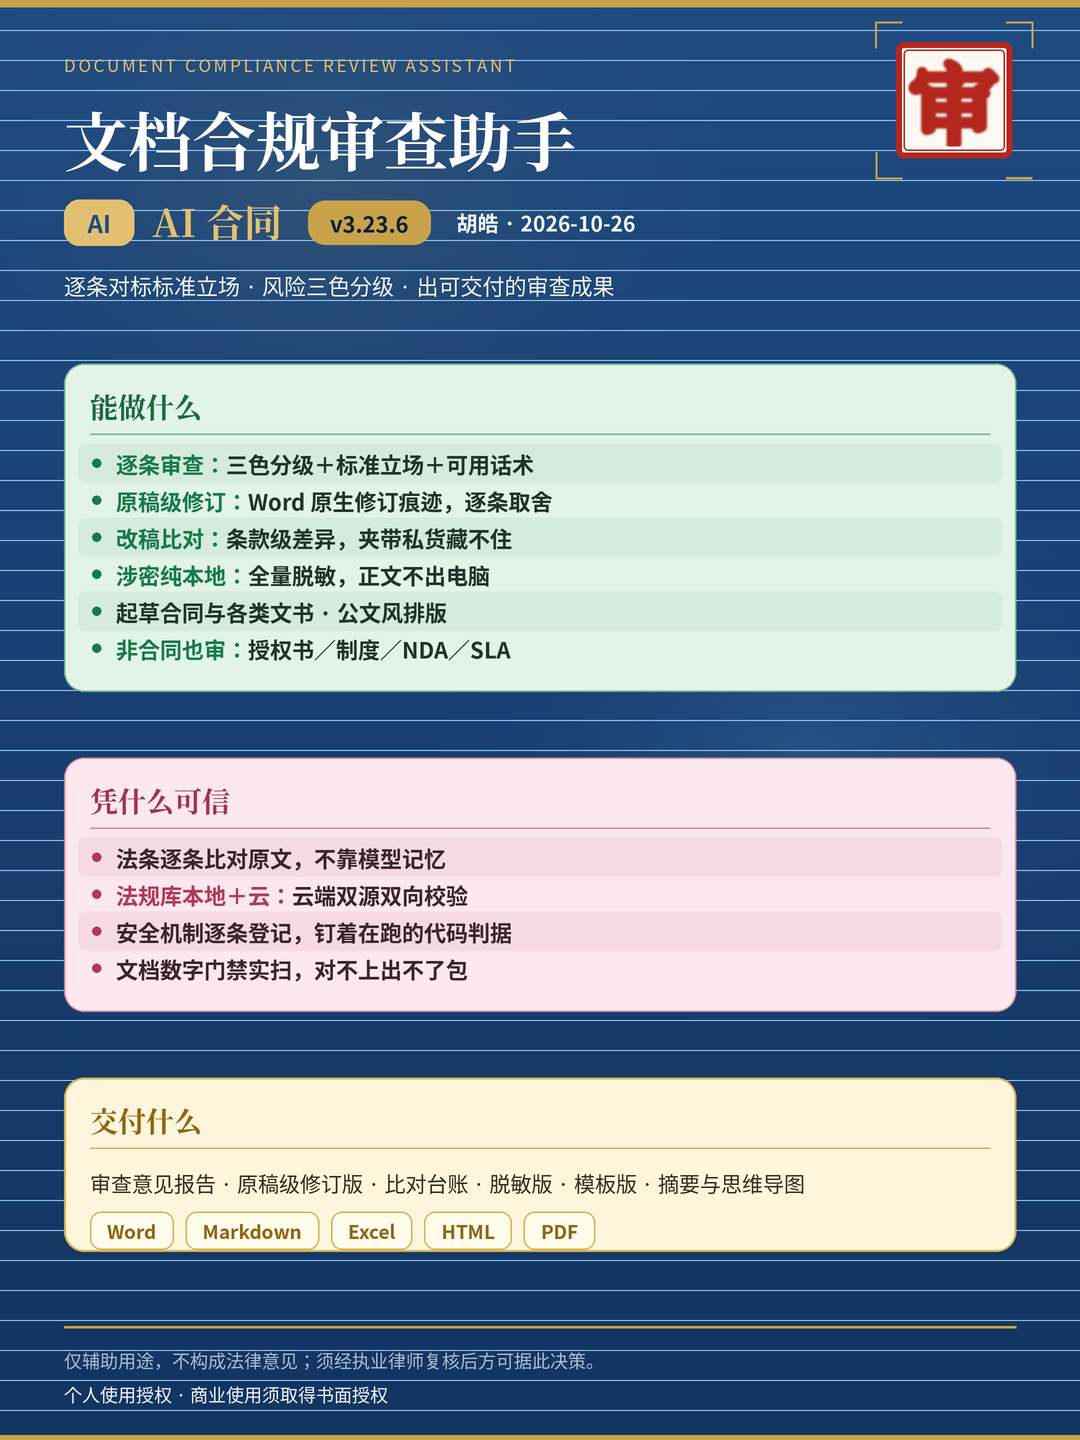
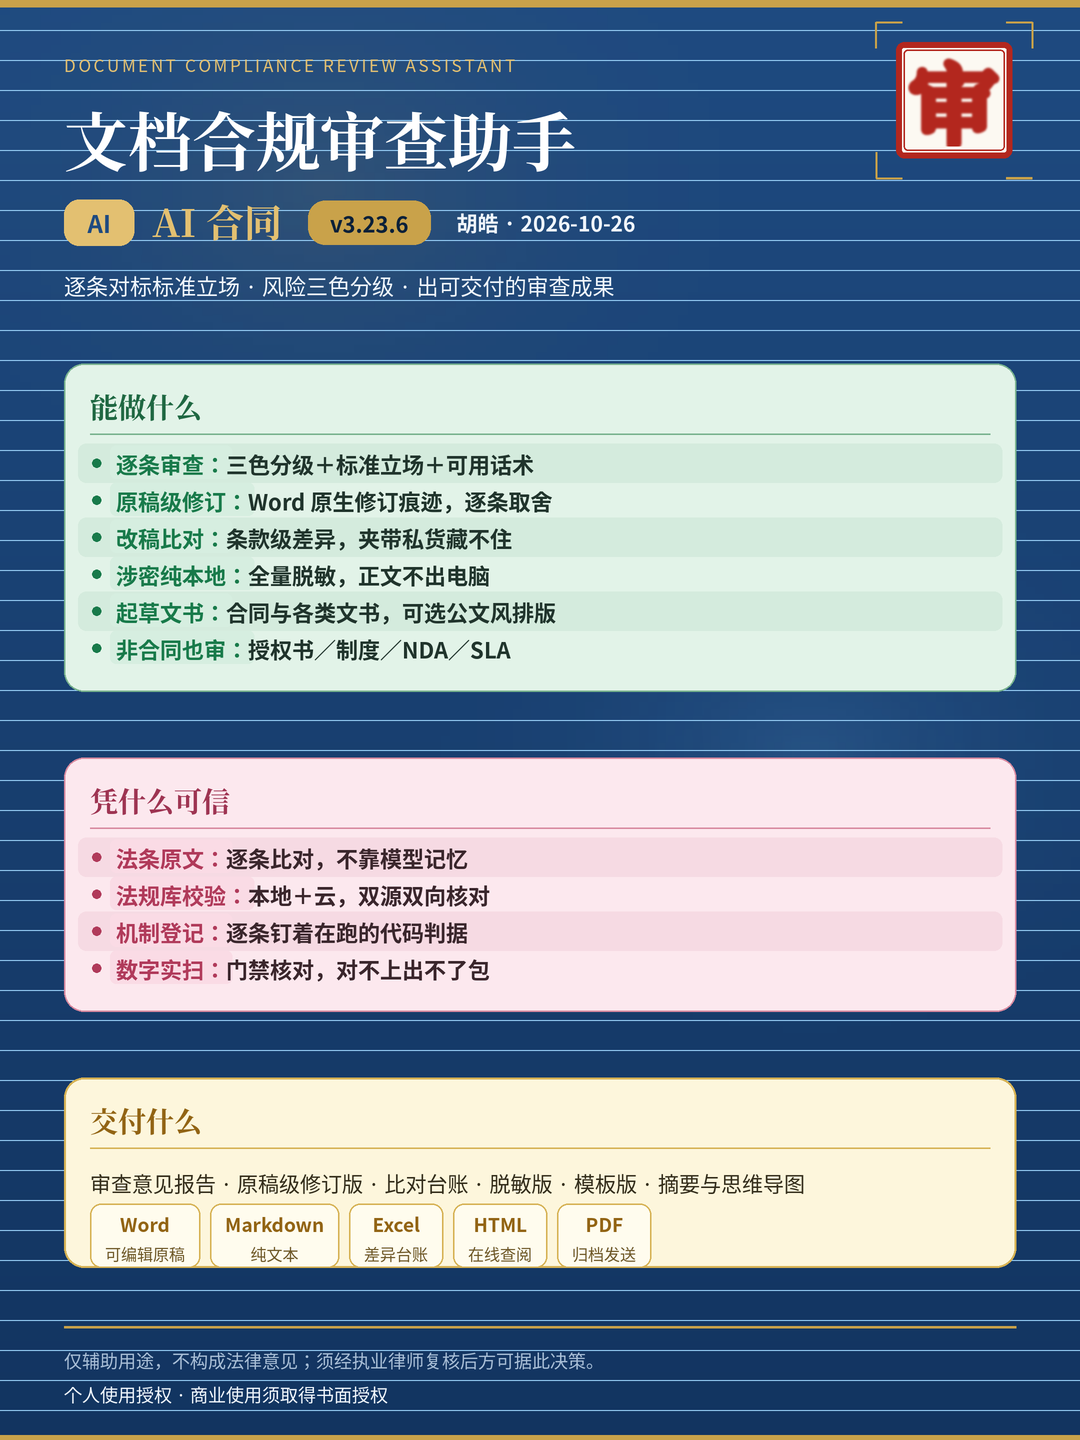
skill-card 表达优化：文案统一「短名：说明」句式、能力名加同色系高亮块、格式徽章改「格式＋用途」双行卡（高亮块用预混色，避 RGBA 混合失效）

Changed region(s): [[0.0611, 0.8438, 0.9472, 0.9062], [0.0917, 0.5625, 0.4889, 0.6875], [0.0917, 0.4062, 0.5194, 0.4375]]

diff --git a/maint/tools/make-card.py b/maint/tools/make-card.py
@@ -86,14 +86,14 @@ BLOCKS = [
         "原稿级修订：Word 原生修订痕迹，逐条取舍",
         "改稿比对：条款级差异，夹带私货藏不住",
         "涉密纯本地：全量脱敏，正文不出电脑",
-        "起草合同与各类文书 · 公文风排版",
+        "起草文书：合同与各类文书，可选公文风排版",
         "非合同也审：授权书／制度／NDA／SLA",
     ]),
     ("凭什么可信", [
-        "法条逐条比对原文，不靠模型记忆",
-        "法规库本地＋云：云端双源双向校验",
-        "安全机制逐条登记，钉着在跑的代码判据",
-        "文档数字门禁实扫，对不上出不了包",
+        "法条原文：逐条比对，不靠模型记忆",
+        "法规库校验：本地＋云，双源双向核对",
+        "机制登记：逐条钉着在跑的代码判据",
+        "数字实扫：门禁核对，对不上出不了包",
     ]),
 ]
 
@@ -105,7 +105,8 @@ TAX_CHIPS = ["发票与税率 · 三流一致", "银行承兑 · 红字冲红", 
 
 DELIVER_TITLE = "交付什么"
 DELIVER = "审查意见报告 · 原稿级修订版 · 比对台账 · 脱敏版 · 模板版 · 摘要与思维导图"
-FORMATS = ["Word", "Markdown", "Excel", "HTML", "PDF"]
+FORMATS = [("Word", "可编辑原稿"), ("Markdown", "纯文本"), ("Excel", "差异台账"),
+           ("HTML", "在线查阅"), ("PDF", "归档发送")]
 DISCLAIM = "仅辅助用途，不构成法律意见；须经执业律师复核后方可据此决策。"
 LICENSE = "个人使用授权 · 商业使用须取得书面授权"
 
@@ -123,6 +124,8 @@ BX_LINE = [(120, 178, 142, 190), (216, 138, 160, 190), (214, 178, 84, 200)]
 BX_TITLE = [(31, 104, 66), (158, 52, 82), (146, 100, 20)]     # 框标题深色
 BX_NAME = [(24, 122, 74), (176, 58, 90), (150, 98, 16)]       # 能力名（对应底色系）
 BX_TEXT = [(32, 52, 44), (58, 38, 44), (52, 46, 28)]          # 正文深色
+# 能力名高亮块：白 14% 预混到框底（不用 alpha——Pillow 混合失效会直接写成实色盖住字）
+BX_HL = [(214, 238, 224), (250, 219, 229), (252, 240, 206)]
 RISK = [("高", (216, 68, 60)), ("中", (227, 166, 55)), ("低", (62, 155, 107))]
 
 # —— 版面尺度（设计单位 px，1 设计单位最终 = 1 出图像素）——
@@ -454,7 +457,7 @@ def render_card(version, f_serif, f_sans, f_sansb, f_seal, ss=2, verbose=False):
 
     f_deli = font(f_sans, 21 * U)
     f_fmt = font(f_sansb, 19 * U)
-    deli_h = HEAD + 44 * U + 46 * U    # 标题 + 交付物一行 + 格式徽章一行
+    deli_h = HEAD + 44 * U + 62 * U    # 标题 + 交付物一行 + 格式徽章一行
     hs = [block_h(BLOCKS[i][1]) for i in range(len(BLOCKS))] + [deli_h]
 
     FOOT_BOX = 96 * U                  # 页脚占用的底部高度（固定，底部锚定）
@@ -488,8 +491,12 @@ def render_card(version, f_serif, f_sans, f_sansb, f_seal, ss=2, verbose=False):
             first = ws[0]
             name, sep, rest = first.partition("：")
             if sep:
-                put((PAD * U + 52 * U, yy), name + "：", f_bodyb, BX_NAME[bi], "la")
                 nw = d.textlength(name + "：", font=f_bodyb)
+                # 能力名加同色系浅底块，做视觉锚点（一眼扫到"是什么"）
+                d.rounded_rectangle(
+                    [PAD * U + 46 * U, yy - 2 * U, PAD * U + 52 * U + nw + 6 * U, yy + LH - 6 * U],
+                    radius=6 * U, fill=BX_HL[bi])
+                put((PAD * U + 52 * U, yy), name + "：", f_bodyb, BX_NAME[bi], "la")
                 put((PAD * U + 52 * U + nw, yy), rest, f_body, BX_TEXT[bi], "la")
             else:
                 put((PAD * U + 52 * U, yy), first, f_body, BX_TEXT[bi], "la")
@@ -514,12 +521,14 @@ def render_card(version, f_serif, f_sans, f_sansb, f_seal, ss=2, verbose=False):
     put((PAD * U + 26 * U, y + HEAD + 6 * U), DELIVER, f_deli, BX_TEXT[2], "la")
     # 格式徽章一排
     bx = PAD * U + 26 * U
-    for fm in FORMATS:
-        tw = d.textlength(fm, font=f_fmt) + 34 * U
-        d.rounded_rectangle([bx, y + HEAD + 50 * U, bx + tw, y + HEAD + 88 * U], radius=11 * U,
-                            fill=(255, 252, 236), outline=BX_LINE[2], width=max(1, int(1.6 * S)))
-        put((bx + tw / 2, y + HEAD + 69 * U), fm, f_fmt, BX_TITLE[2], "mm")
-        bx += tw + 12 * U
+    for fm, why in FORMATS:
+        tw = max(d.textlength(fm, font=f_fmt),
+                 d.textlength(why, font(f_sans, 16 * U))) + 30 * U
+        d.rounded_rectangle([bx, y + HEAD + 42 * U, bx + tw, y + HEAD + 106 * U], radius=11 * U,
+                            fill=(255, 252, 238), outline=BX_LINE[2], width=max(1, int(1.6 * S)))
+        put((bx + tw / 2, y + HEAD + 62 * U), fm, f_fmt, BX_TITLE[2], "mm")
+        put((bx + tw / 2, y + HEAD + 92 * U), why, font(f_sans, 16 * U), (110, 88, 40), "mm")
+        bx += tw + 10 * U
     y = y + deli_h + gap
 
     # ============ 页脚（底部锚定，行间按墨迹盒推进） ============
